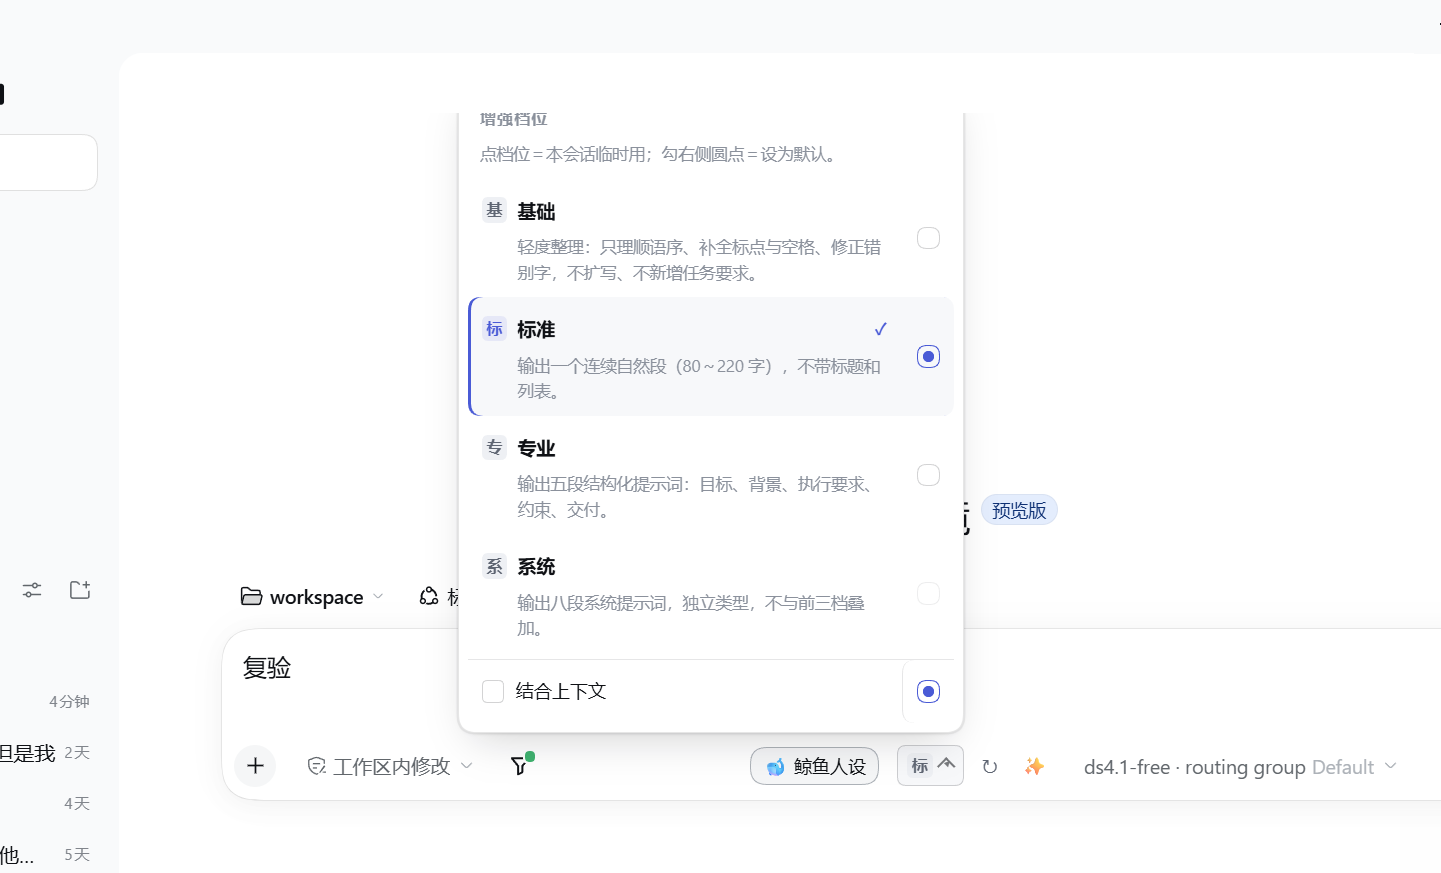
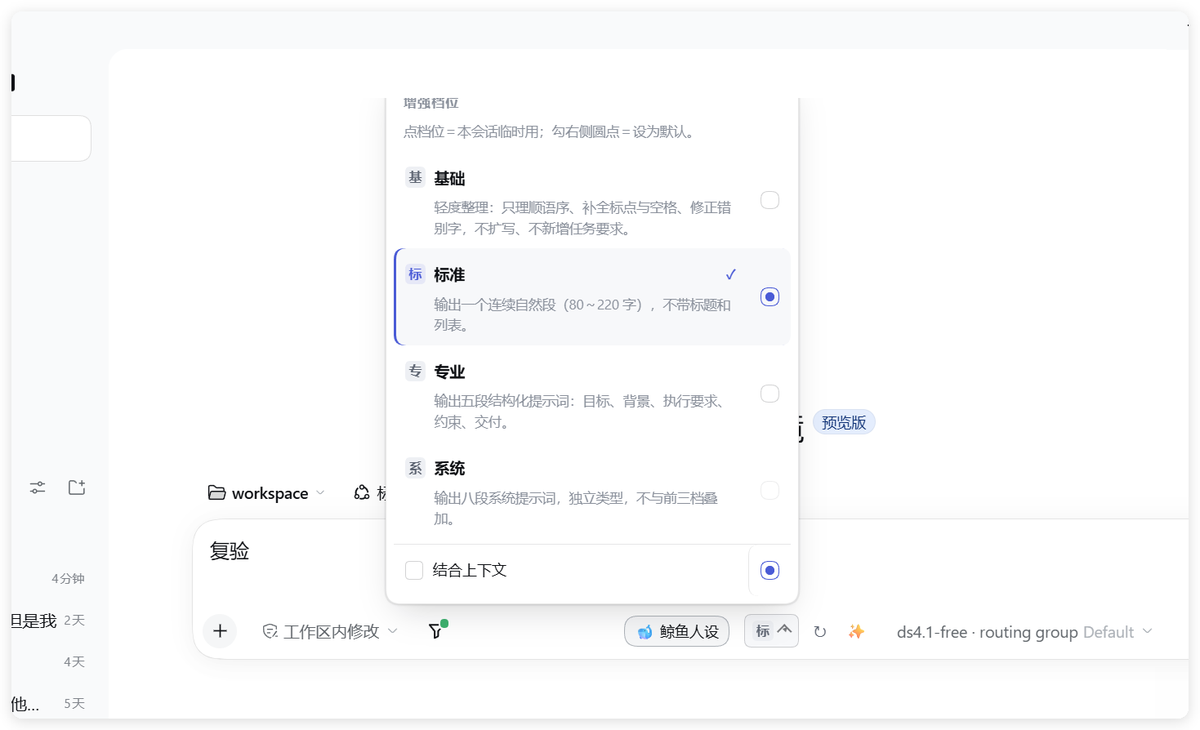
docs: four screenshots in flow order, cropped and carded for readability
The introductions now walk the plugin the way someone uses it: the
iterate workbench, the tier menu, the "enhancing" timer over an untouched
draft, and the rewritten draft with its undo bar. All four are re-cut -
the masked backdrop is gone, edges are rounded, and each sits on white at
a common width, so the storefront reads as one set instead of four loose
screenshots. Originals are kept in the tool's backup area.

diff --git a/dsh-plugin/README.md b/dsh-plugin/README.md
@@ -31,11 +31,19 @@ Good agent prompts state *who the model should be*, *what to deliver*, *in what 
 | ⚙ **Live settings** | Every knob (model override, temperature, budgets, system prompt, shortcut) hot-applies from Settings → 插件配置 |
 | 🛡 **Draft safety** | Empty, over-length, images-only, and command-chip inputs are rejected locally; upstream failures are mapped to readable messages; the draft is never mutated on failure |
 
-![The iterate workbench: an editable base on the left, an optional requirement under it, and the result on the right with fill-back and undo](docs/evidence-prompt-enhance-iterate.png)
+![The iterate workbench: an editable base on the left, an optional requirement under it, and the result on the right with clear / replace / iterate](docs/evidence-prompt-enhance-iterate.png)
 
-The same tier menu in the composer, base / standard / professional / system, the active tier marked, with the "use conversation context" row below:
+The tier menu inside the composer: base / standard / professional / system, the active tier marked, with the "use conversation context" row below:
 
-![The tier menu open in the dsh composer: the four tiers, the standard tier active, and the context toggle beneath](docs/evidence-tier-menu.png)
+![The tier menu in the dsh composer: the four tiers, the standard tier active, and the context toggle beneath](docs/evidence-tier-menu.png)
+
+Press the button and a timer capsule appears above the composer while the draft sits untouched:
+
+![A "正在增强" timer capsule above the composer while the draft stays unchanged](docs/evidence-prompt-enhance-run.png)
+
+A moment later the rewrite replaces the draft, with an undo bar and `Ctrl+Z` to roll back:
+
+![The rewrite has replaced the draft, with an undo bar and Ctrl+Z shown above it](docs/evidence-prompt-enhance-filled.png)
 
 ## How it works
 

diff --git a/README.md b/README.md
@@ -12,11 +12,19 @@
 | **DSH 插件** | DeepSeek Harness Web GUI | 输入框旁的 ✨ 按钮、档位胶囊、全局快捷键 |
 | **热键程序 + Skill** | Codex、ChatGPT、Claude Code 等桌面 agent | 全局热键一键替换草稿；`$p` / `$prompt-enhancer` 在对话里直接调用 |
 
-![迭代工作台:左栏是可编辑的迭代基准,下方填可选的要求,右栏是增强结果,底部可回填与撤销](docs/evidence-prompt-enhance-iterate.png)
+![迭代工作台:左栏是可编辑的迭代基准,下方填可选的要求,右栏是增强结果,底部可清空 / 替换 / 迭代](docs/evidence-prompt-enhance-iterate.png)
 
-同一套档位菜单在输入框里的样子,基础 / 标准 / 专业 / 系统四档,当前档位有勾选与圆点,下方是「结合上下文」开关:
+输入框里展开的档位菜单,基础 / 标准 / 专业 / 系统四档,当前档位有勾选与圆点,下方是「结合上下文」开关:
 
 ![dsh 输入框里展开的档位菜单:四档并列,当前停在标准档,下方是「结合上下文」开关](docs/evidence-tier-menu.png)
+
+点下按钮就到手:输入框上方浮出「正在增强」的计时胶囊,草稿原样留着:
+
+![点下增强按钮后,输入框上方出现「正在增强…」的计时胶囊,草稿保持不变](docs/evidence-prompt-enhance-run.png)
+
+一两秒后增强结果直接替换草稿,上方给出「已用增强结果替换原提示词」与「撤销 Ctrl+Z」,不满意一键回退:
+
+![增强结果已替换原提示词,提示条给出撤销与 Ctrl+Z,替换后的提示词完整可见](docs/evidence-prompt-enhance-filled.png)
 
 两部分共用同一份 `core/rules.md`，四档（基础 / 标准 / 专业 / 系统）的措辞不会分叉。
 

diff --git a/dsh-plugin/README.zh-CN.md b/dsh-plugin/README.zh-CN.md
@@ -32,11 +32,19 @@
 | ⚙ **配置热生效** | 模型覆盖、温度、预算、系统提示词、快捷键,全部在 设置 → 插件配置 即改即用 |
 | 🛡 **草稿安全** | 空输入、超长、仅图片、含命令块在本地拦截;上游失败映射为可读提示;失败绝不改动草稿 |
 
-![迭代工作台:左栏是可编辑的迭代基准,下方填可选的要求,右栏是增强结果,底部可回填与撤销](docs/evidence-prompt-enhance-iterate.png)
+![迭代工作台:左栏是可编辑的迭代基准,下方填可选的要求,右栏是增强结果,底部可清空 / 替换 / 迭代](docs/evidence-prompt-enhance-iterate.png)
 
-同一套档位菜单在输入框里的样子,基础 / 标准 / 专业 / 系统四档,当前档位有勾选与圆点,下方是「结合上下文」开关:
+输入框里展开的档位菜单,基础 / 标准 / 专业 / 系统四档,当前档位有勾选与圆点,下方是「结合上下文」开关:
 
 ![dsh 输入框里展开的档位菜单:四档并列,当前停在标准档,下方是「结合上下文」开关](docs/evidence-tier-menu.png)
+
+点下按钮就到手:输入框上方浮出「正在增强」的计时胶囊,草稿原样留着:
+
+![点下增强按钮后,输入框上方出现「正在增强…」的计时胶囊,草稿保持不变](docs/evidence-prompt-enhance-run.png)
+
+一两秒后增强结果直接替换草稿,上方给出「已用增强结果替换原提示词」与「撤销 Ctrl+Z」,不满意一键回退:
+
+![增强结果已替换原提示词,提示条给出撤销与 Ctrl+Z,替换后的提示词完整可见](docs/evidence-prompt-enhance-filled.png)
 
 ## 工作原理
 
